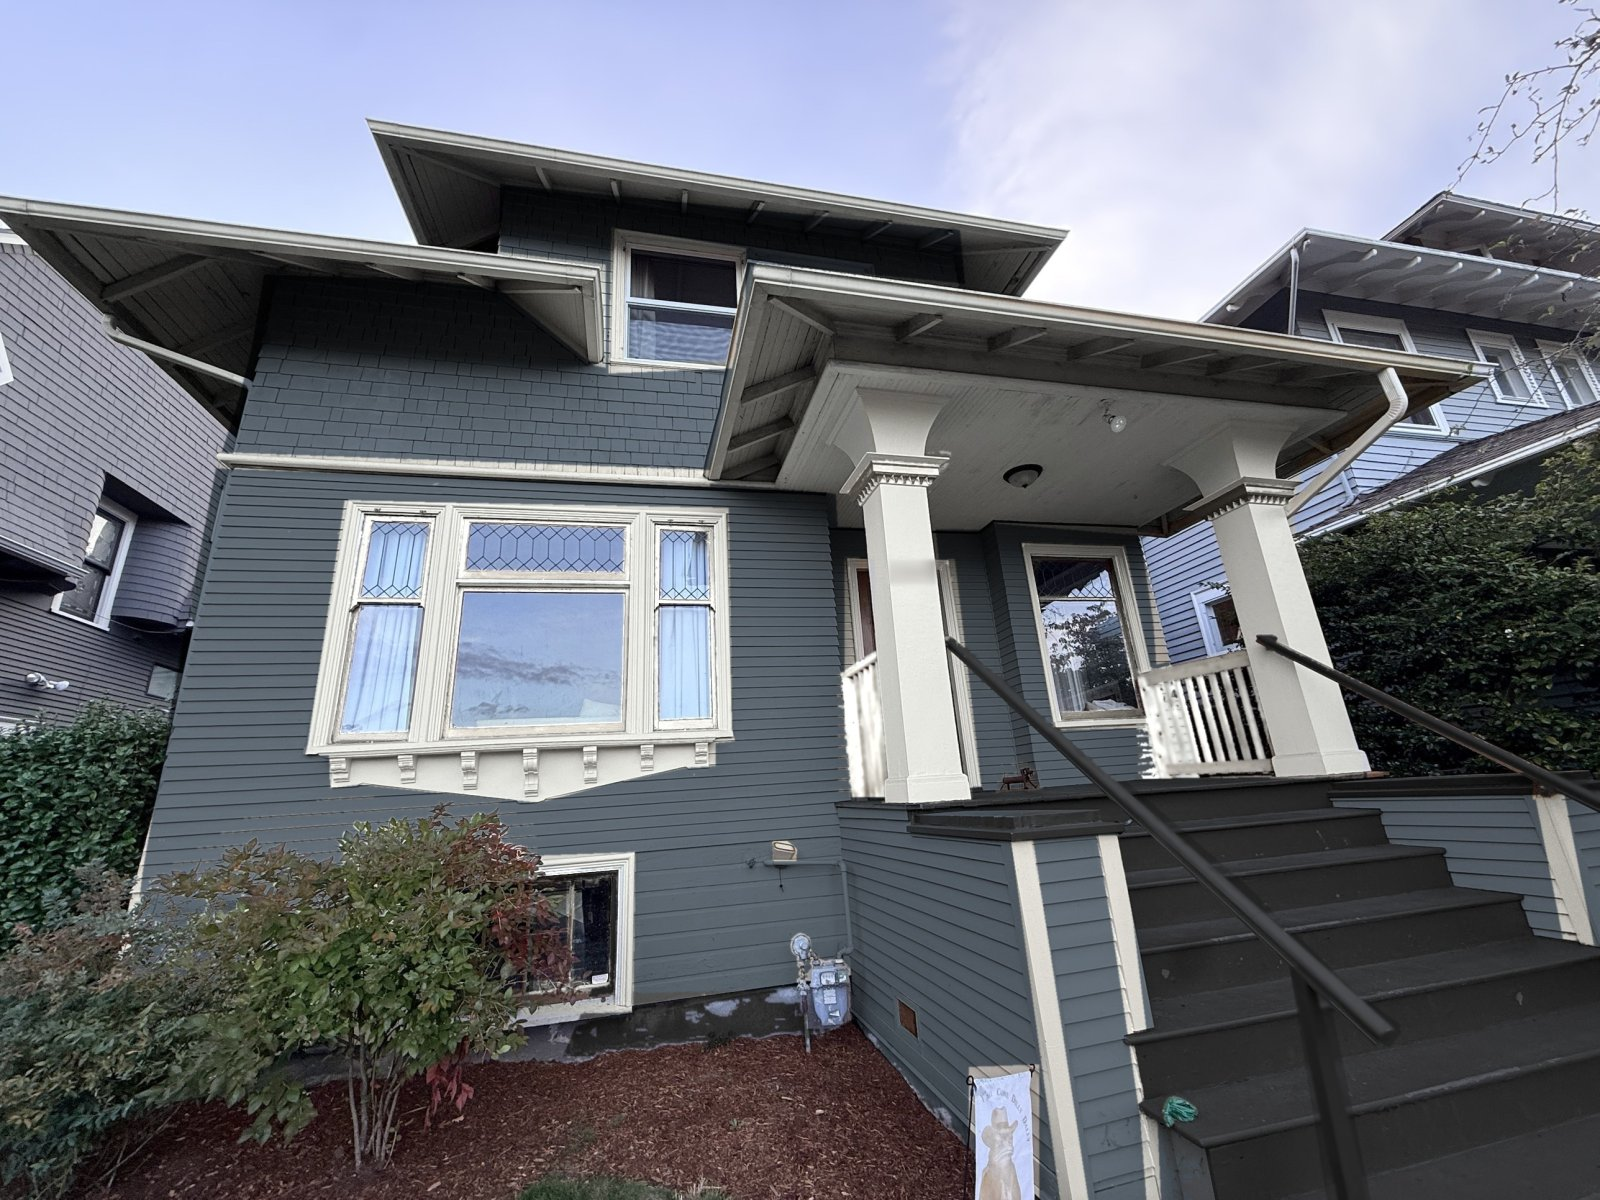
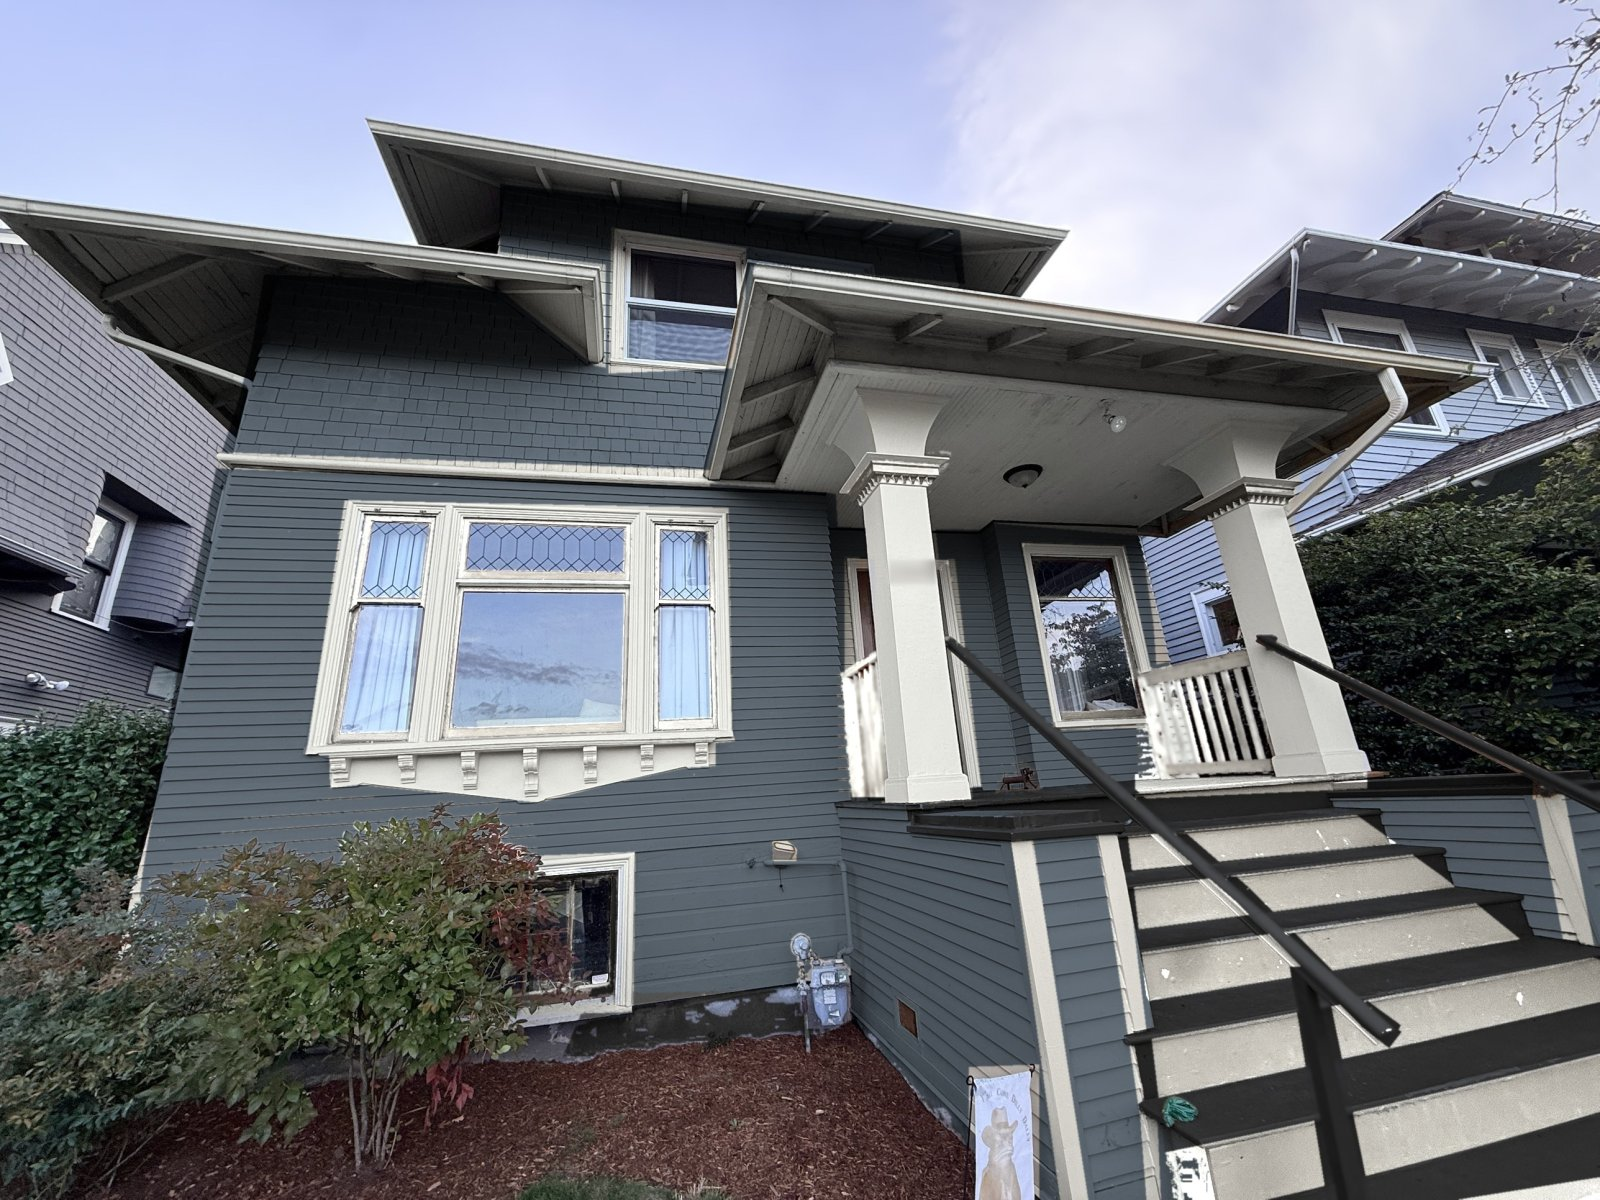
Add white stair risers to all schemes and revise Craftsman Olive
All ten schemes now have Pure White stair risers with dark treads.
Craftsman Olive gets Escape Gray shingles on the second floor and a
Roycroft Copper Red front door. Spec rows, lightness chart and notes
updated to match.

Claude-Session: https://claude.ai/code/session_01SEo8oRAt4RWYwNfk84aejZ

Changed region(s): [[0.6875, 0.6475, 1.0, 1.0], [0.9062, 0.9867, 1.0, 1.0]]

diff --git a/index.html b/index.html
@@ -191,7 +191,7 @@ footer a{color:inherit}
   <header>
     <div class="eyebrow">Sherwin-Williams · Seattle Craftsman</div>
     <h1>Ten color schemes for the house</h1>
-    <p class="lede">Each scheme is painted onto a photo of the house. All ten use Pure White for the trim, columns and porch railings. The window frames, porch floor, steps and handrails take a dark color chosen to suit each wall color. Pick a scheme, then drag the slider to compare it with the house as it is today.</p>
+    <p class="lede">Each scheme is painted onto a photo of the house. All ten use Pure White for the trim, columns, porch railings and stair risers. The window frames, porch floor, stair treads and handrails take a dark color chosen to suit each wall color. Pick a scheme, then drag the slider to compare it with the house as it is today.</p>
   </header>
 
   <section class="stage" aria-label="Rendered scheme">
@@ -210,7 +210,7 @@ footer a{color:inherit}
     <div class="picker" id="picker" role="group" aria-label="Choose a scheme"></div>
     <div class="shared">
       <span class="eyebrow">Same in every scheme</span>
-      <span class="sc"><i style="background:#EDECE6" aria-hidden="true"></i>Pure White trim, columns and porch railings</span>
+      <span class="sc"><i style="background:#EDECE6" aria-hidden="true"></i>Pure White trim, columns, porch railings and stair risers</span>
     </div>
   </section>
 
@@ -250,9 +250,9 @@ footer a{color:inherit}
   <section class="principles">
     <h2>How these were chosen</h2>
     <ul class="plist">
-      <li><b>One white, matched accents.</b><span>Every scheme uses Pure White for the trim, columns and porch railings, so the porch reads as one white frame. The window frames, porch floor, steps and handrails take a dark color chosen for each wall color, often a deeper shade from the same Sherwin-Williams color card.</span></li>
+      <li><b>One white, matched accents.</b><span>Every scheme uses Pure White for the trim, columns, porch railings and stair risers, so the porch reads as one white frame. The window frames, porch floor, stair treads and handrails take a dark color chosen for each wall color, often a deeper shade from the same Sherwin-Williams color card.</span></li>
       <li><b>Dark frames on light walls, white on dark.</b><span>On the light and mid-tone schemes, dark frames make the glass recede, so the leaded panes and the bay window read clearly from the street. On the three deep wall colors the frames are white instead, so the windows don't disappear.</span></li>
-      <li><b>Neutral porch floors.</b><span>The porch floor and steps face the sky, so they look lighter and more colorful than the paint chip. They get a neutral dark rather than navy or green, which would read as a bright blue or army-green staircase.</span></li>
+      <li><b>Two-color stairs.</b><span>White risers and dark treads make each step read on its own and brighten the entry, and the step edges are easier to see. The treads and porch floor face the sky, so they look lighter and more colorful than the paint chip. They get a neutral dark rather than navy or green, which would read as a bright blue or army-green staircase.</span></li>
       <li><b>The neighbors.</b><span>Both neighboring houses are cool blue-gray with white trim. Warm neutrals, greens and olive stand apart from them, while the blue-grays blend into the block.</span></li>
       <li><b>What sells.</b><span>Zillow's 2017 analysis of more than 32,000 photos of sold homes found that greige exteriors sold for more than comparable homes in medium brown or tan, which sold for less. Front doors from navy to slate gray also sold for more.</span></li>
       <li><b>Left out on purpose.</b><span>Pastel and sky blues, dark greens, browns and tans, and all-white. On this house each one looked off, felt gloomy under Seattle skies, tends to sell for less, or needs more upkeep.</span></li>
@@ -265,7 +265,8 @@ footer a{color:inherit}
       <li>Narrow it to two or three, then buy sample quarts and paint 2 ft square boards. Look at them against the house on a gray day and a sunny one, since screens can't show paint exactly.</li>
       <li>Suggested sheens: satin or low-luster on siding and shingles, semi-gloss on trim and window frames, and porch-and-floor enamel with an anti-slip additive on the steps.</li>
       <li>The porch railings are cedar, which bleeds brown tannin stains through paint. Have the painter use a stain-blocking primer first.</li>
-      <li>With any of the light or mid-tone schemes, a front door in In the Navy adds one more accent.</li>
+      <li>White stair risers show scuffs. Use porch-and-floor enamel on the stairs and plan on occasional touch-ups.</li>
+      <li>Craftsman Olive shows a Roycroft Copper Red front door, mostly hidden behind the left column in this photo. On the other light and mid-tone schemes, a front door in In the Navy adds one more accent.</li>
       <li>The upper window is white vinyl, so it stays white in every rendering. That suits the white trim.</li>
       <li>Exterior paint needs dry weather, so in Seattle plan the work for late spring through early fall.</li>
     </ul>
@@ -273,7 +274,7 @@ footer a{color:inherit}
 
   <footer>
     <p>Renderings are digital recolors of a photo of the house that keep its original light and shadow. Treat them as a guide, not a color match.</p>
-    <p>Color numbers and RGB values: <a href="https://images.sherwin-williams.com/content_images/sw-pdf-sherwin-williams-colorc.pdf" target="_blank" rel="noopener">Sherwin-Williams color list</a> and color pages for <a href="https://www.sherwin-williams.com/en-us/color/color-family/green-paint-colors/sw6206-oyster-bay" target="_blank" rel="noopener">Oyster Bay</a>, <a href="https://www.sherwin-williams.com/sherwinwilliams/SW9130-evergreen-fog" target="_blank" rel="noopener">Evergreen Fog</a>, <a href="https://www.sherwin-williams.com/en-us/color/color-family/blue-paint-colors/sw6249-storm-cloud" target="_blank" rel="noopener">Storm Cloud</a>, <a href="https://www.sherwin-williams.com/en-us/color/color-family/neutral-paint-colors/sw7743-mountain-road" target="_blank" rel="noopener">Mountain Road</a>, <a href="https://www.sherwin-williams.com/en-us/color/color-family/blue-paint-colors/sw6250-granite-peak" target="_blank" rel="noopener">Granite Peak</a>, <a href="https://www.sherwin-williams.com/sherwinwilliams/SW9178-in-the-navy" target="_blank" rel="noopener">In the Navy</a>, <a href="https://www.sherwin-williams.com/en-us/color/color-family/green-paint-colors/sw6209-ripe-olive" target="_blank" rel="noopener">Ripe Olive</a> and <a href="https://www.sherwin-williams.com/en-us/color/color-family/neutral-paint-colors/sw7076-cyberspace" target="_blank" rel="noopener">Cyberspace</a>. LRVs are calculated from those values. Resale data: <a href="https://zillow.mediaroom.com/2017-06-01-Homes-with-Blue-Bathrooms-Sell-for-5-400-More-than-Expected" target="_blank" rel="noopener">Zillow 2017 Paint Color Analysis</a>.</p>
+    <p>Color numbers and RGB values: <a href="https://images.sherwin-williams.com/content_images/sw-pdf-sherwin-williams-colorc.pdf" target="_blank" rel="noopener">Sherwin-Williams color list</a> and color pages for <a href="https://www.sherwin-williams.com/en-us/color/color-family/green-paint-colors/sw6206-oyster-bay" target="_blank" rel="noopener">Oyster Bay</a>, <a href="https://www.sherwin-williams.com/sherwinwilliams/SW9130-evergreen-fog" target="_blank" rel="noopener">Evergreen Fog</a>, <a href="https://www.sherwin-williams.com/en-us/color/color-family/blue-paint-colors/sw6249-storm-cloud" target="_blank" rel="noopener">Storm Cloud</a>, <a href="https://www.sherwin-williams.com/en-us/color/color-family/neutral-paint-colors/sw7743-mountain-road" target="_blank" rel="noopener">Mountain Road</a>, <a href="https://www.matchmypaintcolor.com/sherwin-williams/escape-gray-sw-6185" target="_blank" rel="noopener">Escape Gray</a>, <a href="https://www.sherwin-williams.com/en-us/color/color-family/blue-paint-colors/sw6250-granite-peak" target="_blank" rel="noopener">Granite Peak</a>, <a href="https://www.sherwin-williams.com/sherwinwilliams/SW9178-in-the-navy" target="_blank" rel="noopener">In the Navy</a>, <a href="https://www.sherwin-williams.com/en-us/color/color-family/green-paint-colors/sw6209-ripe-olive" target="_blank" rel="noopener">Ripe Olive</a> and <a href="https://www.sherwin-williams.com/en-us/color/color-family/neutral-paint-colors/sw7076-cyberspace" target="_blank" rel="noopener">Cyberspace</a>. LRVs are calculated from those values. Resale data: <a href="https://zillow.mediaroom.com/2017-06-01-Homes-with-Blue-Bathrooms-Sell-for-5-400-More-than-Expected" target="_blank" rel="noopener">Zillow 2017 Paint Color Analysis</a>.</p>
   </footer>
 </div>
 
@@ -284,6 +285,7 @@ const C = {
   fog:{name:"Evergreen Fog",sw:"SW 9130",hex:"#95978A",lrv:30},
   dovetail:{name:"Dovetail",sw:"SW 7018",hex:"#908A83",lrv:26},
   mtnroad:{name:"Mountain Road",sw:"SW 7743",hex:"#868578",lrv:23},
+  escape:{name:"Escape Gray",sw:"SW 6185",hex:"#ABAC9F",lrv:41},
   storm:{name:"Storm Cloud",sw:"SW 6249",hex:"#7A848D",lrv:23},
   granite:{name:"Granite Peak",sw:"SW 6250",hex:"#606B75",lrv:14},
   pepper:{name:"Peppercorn",sw:"SW 7674",hex:"#585858",lrv:10},
@@ -294,7 +296,8 @@ const C = {
   ripe:{name:"Ripe Olive",sw:"SW 6209",hex:"#44483D",lrv:6},
   cyber:{name:"Cyberspace",sw:"SW 7076",hex:"#44484D",lrv:6},
   andiron:{name:"Andiron",sw:"SW 6174",hex:"#424036",lrv:5},
-  tricorn:{name:"Tricorn Black",sw:"SW 6258",hex:"#2F2F30",lrv:3}
+  tricorn:{name:"Tricorn Black",sw:"SW 6258",hex:"#2F2F30",lrv:3},
+  copper:{name:"Roycroft Copper Red",sw:"SW 2839",hex:"#7B3728",lrv:7}
 };
 // scores: cheerful on gray days, shows off the details, broad buyer appeal, stands apart from neighbors, upkeep
 const P = [
@@ -303,7 +306,7 @@ const P = [
    watch:"The white trim stands out less than on darker schemes, so the bronze window frames and porch do much of the work. Greige can look flat on a small chip, so judge it on a large board outside.",
    scores:[3,2,3,3,2]},
   {id:"oyster", title:"Soft Sage", kind:"Light · green", short:"Pale gray-green with olive frames", body:[["Siding and shingles","oyster"]], frames:"ripe", porch:"bronze",
-   why:"Oyster Bay is a pale gray-green that reads fresh and calm. It's as bright as Warm Greige with a hint of color, and it suits the evergreens and shrubs around the house. The Ripe Olive window frames come from the same Sherwin-Williams color card, so they share its green undertone. The porch and steps are Urbane Bronze, a neutral that looks better than green on a large floor.",
+   why:"Oyster Bay is a pale gray-green that reads fresh and calm. It's as bright as Warm Greige with a hint of color, and it suits the evergreens and shrubs around the house. The Ripe Olive window frames come from the same Sherwin-Williams color card, so they share its green undertone. The porch floor and stair treads are Urbane Bronze, a neutral that looks better than green on a large floor.",
    watch:"In flat light it can read more gray than green. It's similar in lightness to the house on the left, though greener.",
    scores:[3,2,2,2,2]},
   {id:"twotone", title:"Two-Tone Greige", kind:"Light over mid · warm", short:"Greige shingles over stone gray siding", body:[["Shingles, second floor","requisite"],["Lap siding, first floor","dovetail"]], frames:"bronze", porch:"bronze",
@@ -319,15 +322,15 @@ const P = [
    watch:"It's the most subdued scheme. Next to the gray house on the left it reads as a warmer cousin rather than a clear contrast.",
    scores:[2,3,3,2,3]},
   {id:"storm", title:"Blue Gray", kind:"Mid · blue", short:"Muted blue-gray with navy frames", body:[["Siding and shingles","storm"]], frames:"navy", porch:"cyber",
-   why:"Storm Cloud is a muted blue-gray that gives a hint of blue without the weight of navy. In the Navy window frames deepen the blue, and Cyberspace, a blue-black gray, keeps the porch and steps neutral. Blue-gray with white trim is a familiar, well-liked look on Northwest houses.",
+   why:"Storm Cloud is a muted blue-gray that gives a hint of blue without the weight of navy. In the Navy window frames deepen the blue, and Cyberspace, a blue-black gray, keeps the porch floor and stair treads neutral. Blue-gray with white trim is a familiar, well-liked look on Northwest houses.",
    watch:"Both neighbors are cool blue-grays, so this scheme blends into the block more than the warmer ones.",
    scores:[2,3,3,1,3]},
-  {id:"olive", title:"Craftsman Olive", kind:"Mid · olive", short:"Earthy olive-khaki with olive-black accents", body:[["Siding and shingles","mtnroad"]], frames:"andiron", porch:"andiron",
-   why:"Mountain Road is an earthy olive-khaki in the spirit of traditional Arts and Crafts colors. It's warmer and more grounded than the sages and suits the planting around the house. Andiron, a deep olive-black, frames the windows and grounds the porch.",
-   watch:"It's the most particular taste in the set and can look drab on very gray days.",
-   scores:[1,3,2,3,3]},
+  {id:"olive", title:"Craftsman Olive", kind:"Light over mid · olive", short:"Olive siding, sage-gray shingles, copper red door", body:[["Shingles, second floor","escape"],["Lap siding, first floor","mtnroad"]], frames:"andiron", porch:"andiron", door:"copper",
+   why:"Mountain Road is an earthy olive-khaki in the spirit of traditional Arts and Crafts colors. The second-floor shingles are Escape Gray, a lighter sage-gray, which keeps the top of the house from looking heavy in the shade of the deep eaves. Andiron, a deep olive-black, frames the windows and grounds the porch, and a Roycroft Copper Red front door adds a warm accent where visitors see it up close.",
+   watch:"It's the most particular taste in the set, and the color change at the belt course adds a little to the cost of the paint job. The front door is mostly hidden behind the left column in this photo.",
+   scores:[2,3,2,3,3]},
   {id:"slate", title:"Deep Slate", kind:"Deep · blue-gray", short:"Dark slate with white frames", body:[["Siding and shingles","granite"]], frames:"pure", porch:"tricorn",
-   why:"Granite Peak is a deep slate with a blue cast. It's dramatic like navy but lighter and grayer, so it feels less heavy on overcast days. White window frames keep the windows bright against the dark walls, and a black porch and steps ground the house.",
+   why:"Granite Peak is a deep slate with a blue cast. It's dramatic like navy but lighter and grayer, so it feels less heavy on overcast days. White window frames keep the windows bright against the dark walls, and a black porch floor and stair treads ground the house.",
    watch:"Dark colors fade sooner on walls that get strong afternoon sun. It shares the cool cast of both neighbors.",
    scores:[1,3,2,2,2]},
   {id:"charcoal", title:"Charcoal", kind:"Deep · neutral", short:"Soft charcoal with white frames", body:[["Siding and shingles","pepper"]], frames:"pure", porch:"tricorn",
@@ -335,45 +338,48 @@ const P = [
    watch:"The house looks heavier on gray days, and dark colors fade sooner on sunny walls.",
    scores:[1,3,3,2,2]},
   {id:"navy", title:"Classic Navy", kind:"Deep · blue", short:"Deep navy with white frames", body:[["Siding and shingles","navy"]], frames:"pure", porch:"tricorn",
-   why:"Navy with white trim is a pairing almost every buyer recognizes. White window frames and railings make the bay window and porch stand out crisply against the navy, and a black porch and steps ground the house.",
+   why:"Navy with white trim is a pairing almost every buyer recognizes. White window frames and railings make the bay window and porch stand out crisply against the navy, and a black porch floor and stair treads ground the house.",
    watch:"It's the darkest option by far, at an LRV around 4, so on gray afternoons the walls can read close to black. Dark colors also fade sooner on sunny walls.",
    scores:[1,3,3,2,2]}
 ];
 P.forEach(p=>{
   const rows = p.body.slice();
   if (p.frames === "pure") {
-    rows.push(["Trim, window frames, columns, porch railings, eaves, gutters","pure"]);
-    rows.push(["Porch floor, steps, handrails, foundation", p.porch]);
+    rows.push(["Trim, window frames, columns, porch railings, stair risers, eaves, gutters","pure"]);
+    rows.push(["Porch floor, stair treads, handrails, foundation", p.porch]);
   } else {
-    rows.push(["Trim, columns, porch railings, eaves, gutters","pure"]);
-    if (p.frames === p.porch) rows.push(["Window frames, porch floor, steps, handrails, foundation", p.frames]);
-    else { rows.push(["Window frames", p.frames]); rows.push(["Porch floor, steps, handrails, foundation", p.porch]); }
+    rows.push(["Trim, columns, porch railings, stair risers, eaves, gutters","pure"]);
+    if (p.frames === p.porch) rows.push(["Window frames, porch floor, stair treads, handrails, foundation", p.frames]);
+    else { rows.push(["Window frames", p.frames]); rows.push(["Porch floor, stair treads, handrails, foundation", p.porch]); }
   }
+  if (p.door) rows.push(["Front door", p.door]);
   p.specs = rows;
   const accents = [p.frames, p.porch].filter((k,i,a)=>k!=="pure" && a.indexOf(k)===i);
-  p.strip = p.body.map(([,k])=>[k, 4/p.body.length]).concat([["pure",1.6]], accents.map(k=>[k,1]));
-  p.paints = p.body.map(([,k])=>C[k].name).join(" over ") + " · " + accents.map(k=>C[k].name).join(", ");
+  p.strip = p.body.map(([,k])=>[k, 4/p.body.length]).concat([["pure",1.6]], accents.map(k=>[k,1]), p.door ? [[p.door,0.8]] : []);
+  p.paints = p.body.map(([,k])=>C[k].name).join(" over ") + " · " + accents.map(k=>C[k].name).join(", ") + (p.door ? " · " + C[p.door].name + " door" : "");
 });
 const SCORE_LABELS=[["Low","Medium","High"],["Low","Medium","High"],["Narrower","Good","Broad"],["Low","Medium","High"],["More work","Average","Easy"]];
 const LRV_ROWS=[
   ["Wall colors"],
   ["requisite","Warm Greige; Two-Tone Greige second floor"],
   ["oyster","Soft Sage"],
+  ["escape","Craftsman Olive second floor"],
   ["fog","Garden Sage"],
   ["dovetail","Stone Gray; Two-Tone Greige first floor"],
-  ["mtnroad","Craftsman Olive"],
+  ["mtnroad","Craftsman Olive first floor"],
   ["storm","Blue Gray"],
   ["granite","Deep Slate"],
   ["pepper","Charcoal"],
   ["navy","Classic Navy; window frames on Blue Gray"],
   ["Trim and accent colors"],
-  ["pure","Trim, columns and porch railings on all ten; window frames on the three deep schemes"],
+  ["pure","Trim, columns, porch railings and stair risers on all ten; window frames on the three deep schemes"],
   ["bronze","Accents on Warm Greige, Two-Tone Greige and Garden Sage; porch on Soft Sage"],
   ["fox","Accents on Stone Gray"],
+  ["copper","Front door on Craftsman Olive"],
   ["ripe","Window frames on Soft Sage"],
-  ["cyber","Porch, steps and handrails on Blue Gray"],
+  ["cyber","Porch floor, stair treads and handrails on Blue Gray"],
   ["andiron","Accents on Craftsman Olive"],
-  ["tricorn","Porch, steps and handrails on Deep Slate, Charcoal and Classic Navy"]
+  ["tricorn","Porch floor, stair treads and handrails on Deep Slate, Charcoal and Classic Navy"]
 ];
 
 const $ = s => document.querySelector(s);
